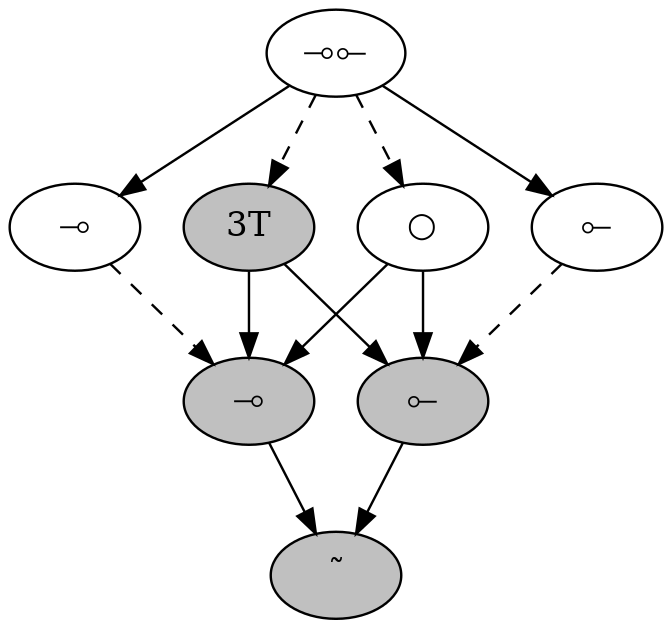
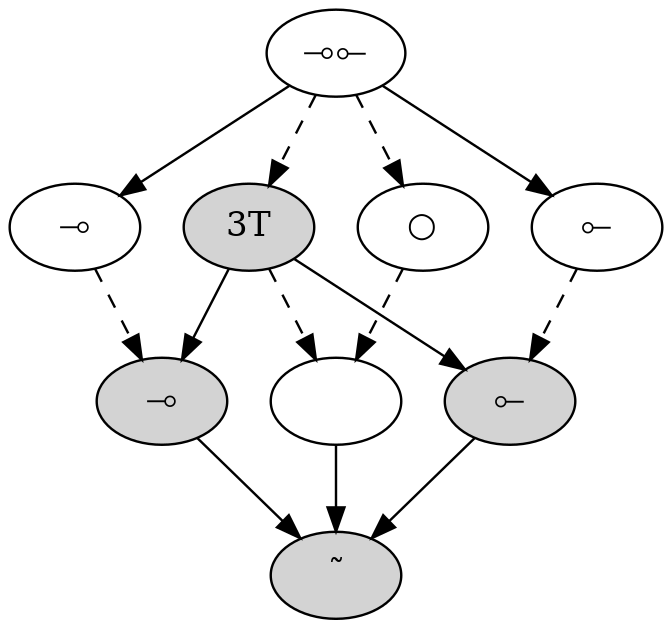
Update to pngs

diff --git a/text-only/thesis/combinator-graph.py b/text-only/thesis/combinator-graph.py
@@ -5,42 +5,48 @@ ID = 1 # IDENTITY
 BOTH = 2
 
 e_combinators = { 
-    'ε' : ['Ê'],
-    'E' : ['Ê'],
-    'Φ₁' : ['Ê'],
+    # 'ε' : ['Ê'],
+    'E' : [('Ê', ID)],
+    'Φ₁' : [('Ê', EQ)],
 }
 
 d2_combinators = { 
     #'D₂' : ['Ê'],
     'D'  : [('D₂', ID)], #'E'],
     '∆' : [('D₂', ID)], # 'ε'],
-    'Σ' : [('∆', EQ), ('Φ', ID), ('Ψ', ID)], # 'ε'],
+    'Σ' : [('∆', EQ), ('Φ', ID), ], # 'ε'],
+    'H₂' : [('Ψ', EQ),('Φ', EQ)],
     'Φ'  : [('D₂', EQ)], #'E\''],
-    'S'  : [('Φ', ID), ('D', EQ), ('Ψ', ID)],
+    'S'  : [('Φ', ID), ('D', EQ),],
     'Ψ'  : [('D₂', EQ)],
-    'W'  : [('S',ID) , ('Σ', ID)], # 'Σ'
+    'W'  : [('S',ID), ('Σ', ID), ('H₂', ID)],
+    # 'W'  : [('Ψ', BOTH), ('S',ID),]
 }
 
 d2bqn_combinators = { 
-    '⟜₂'  : [('⊸⟜', ID)], #'E'],
+    '⟜₂' : [('⊸⟜', ID)], #'E'],
     '⊸₂' : [('⊸⟜', ID)], # 'ε'],
-    '⊸₁' : [('⊸₂', EQ), ('3T', ID), ('○', ID)], # 'ε'],
-    '3T'  : [('⊸⟜', EQ)], #'E\''],
-    '⟜₁'  : [('3T', ID), ('⟜₂', EQ), ('○', ID)],
+    '⊸₁' : [('⊸₂', EQ), ('3T', ID)], # 'ε'],
+    ' '  : [('○', EQ),('3T', EQ)],
+    '3T' : [('⊸⟜', EQ)], #'E\''],
+    '⟜₁' : [('3T', ID), ('⟜₂', EQ)],
     '○'  : [('⊸⟜', EQ)],
-    '˜'  : [('⟜₁',ID) , ('⊸₁', ID)], # 'Σ'
+    '˜'  : [('⟜₁',ID) , ('⊸₁', ID), (' ', ID)], # 'Σ'
 }
 
-combinators = d2_combinators
+combinators = {**d2_combinators} #, **d2bqn_combinators}
 
 dot = gv.Digraph('combinator-graph', format = 'png')
 dot.attr(size='7,7!')
 
 for combinator in combinators.keys():
-    l = combinator.replace('₁', '')
-    l = l.replace('₂', '')
-    if combinator in ['S', 'W', 'Φ', 'Σ', '3T', '˜', '⊸₁', '⟜₁']:
-        dot.node(combinator, style='filled', fillcolor = 'gray', label=l)
+    if '⊸' in combinator or '⟜' in combinator:
+        l = combinator.replace('₁', '')
+        l = l.replace('₂', '')
+    else:
+        l = combinator
+    if combinator in ['S', 'W', 'Φ', 'Σ', '3T', '˜', '⊸₁', '⟜₁', 'H₂', ' ']:
+        dot.node(combinator, style='filled', fillcolor = 'lightgray', label=l)
     else: 
         dot.node(combinator, label=l)
 
